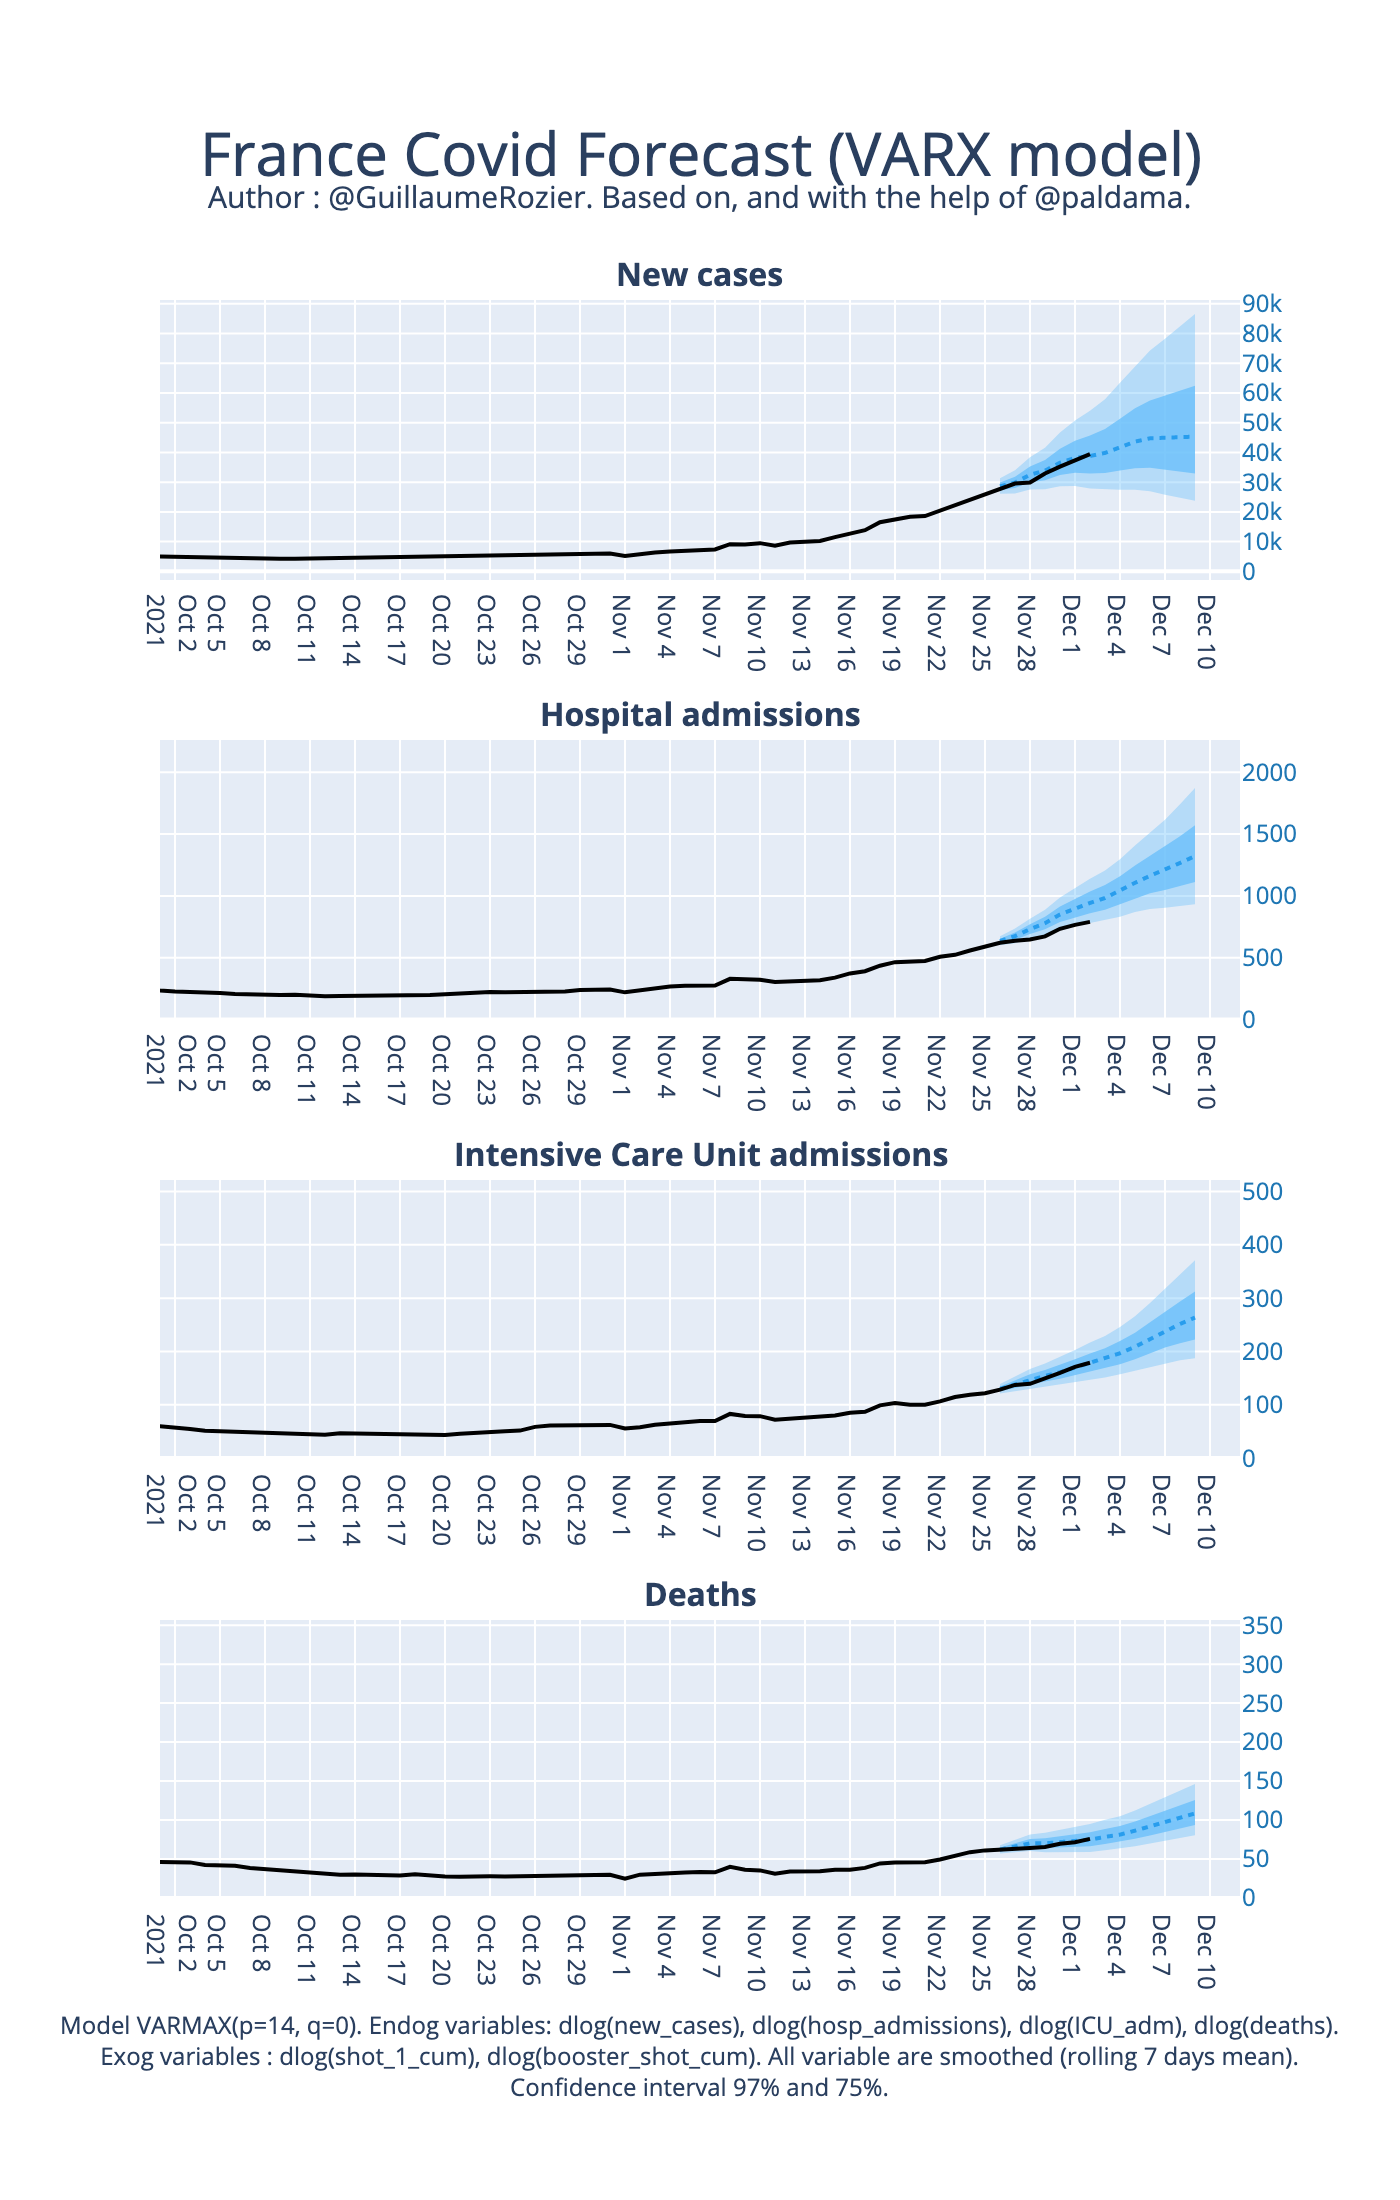
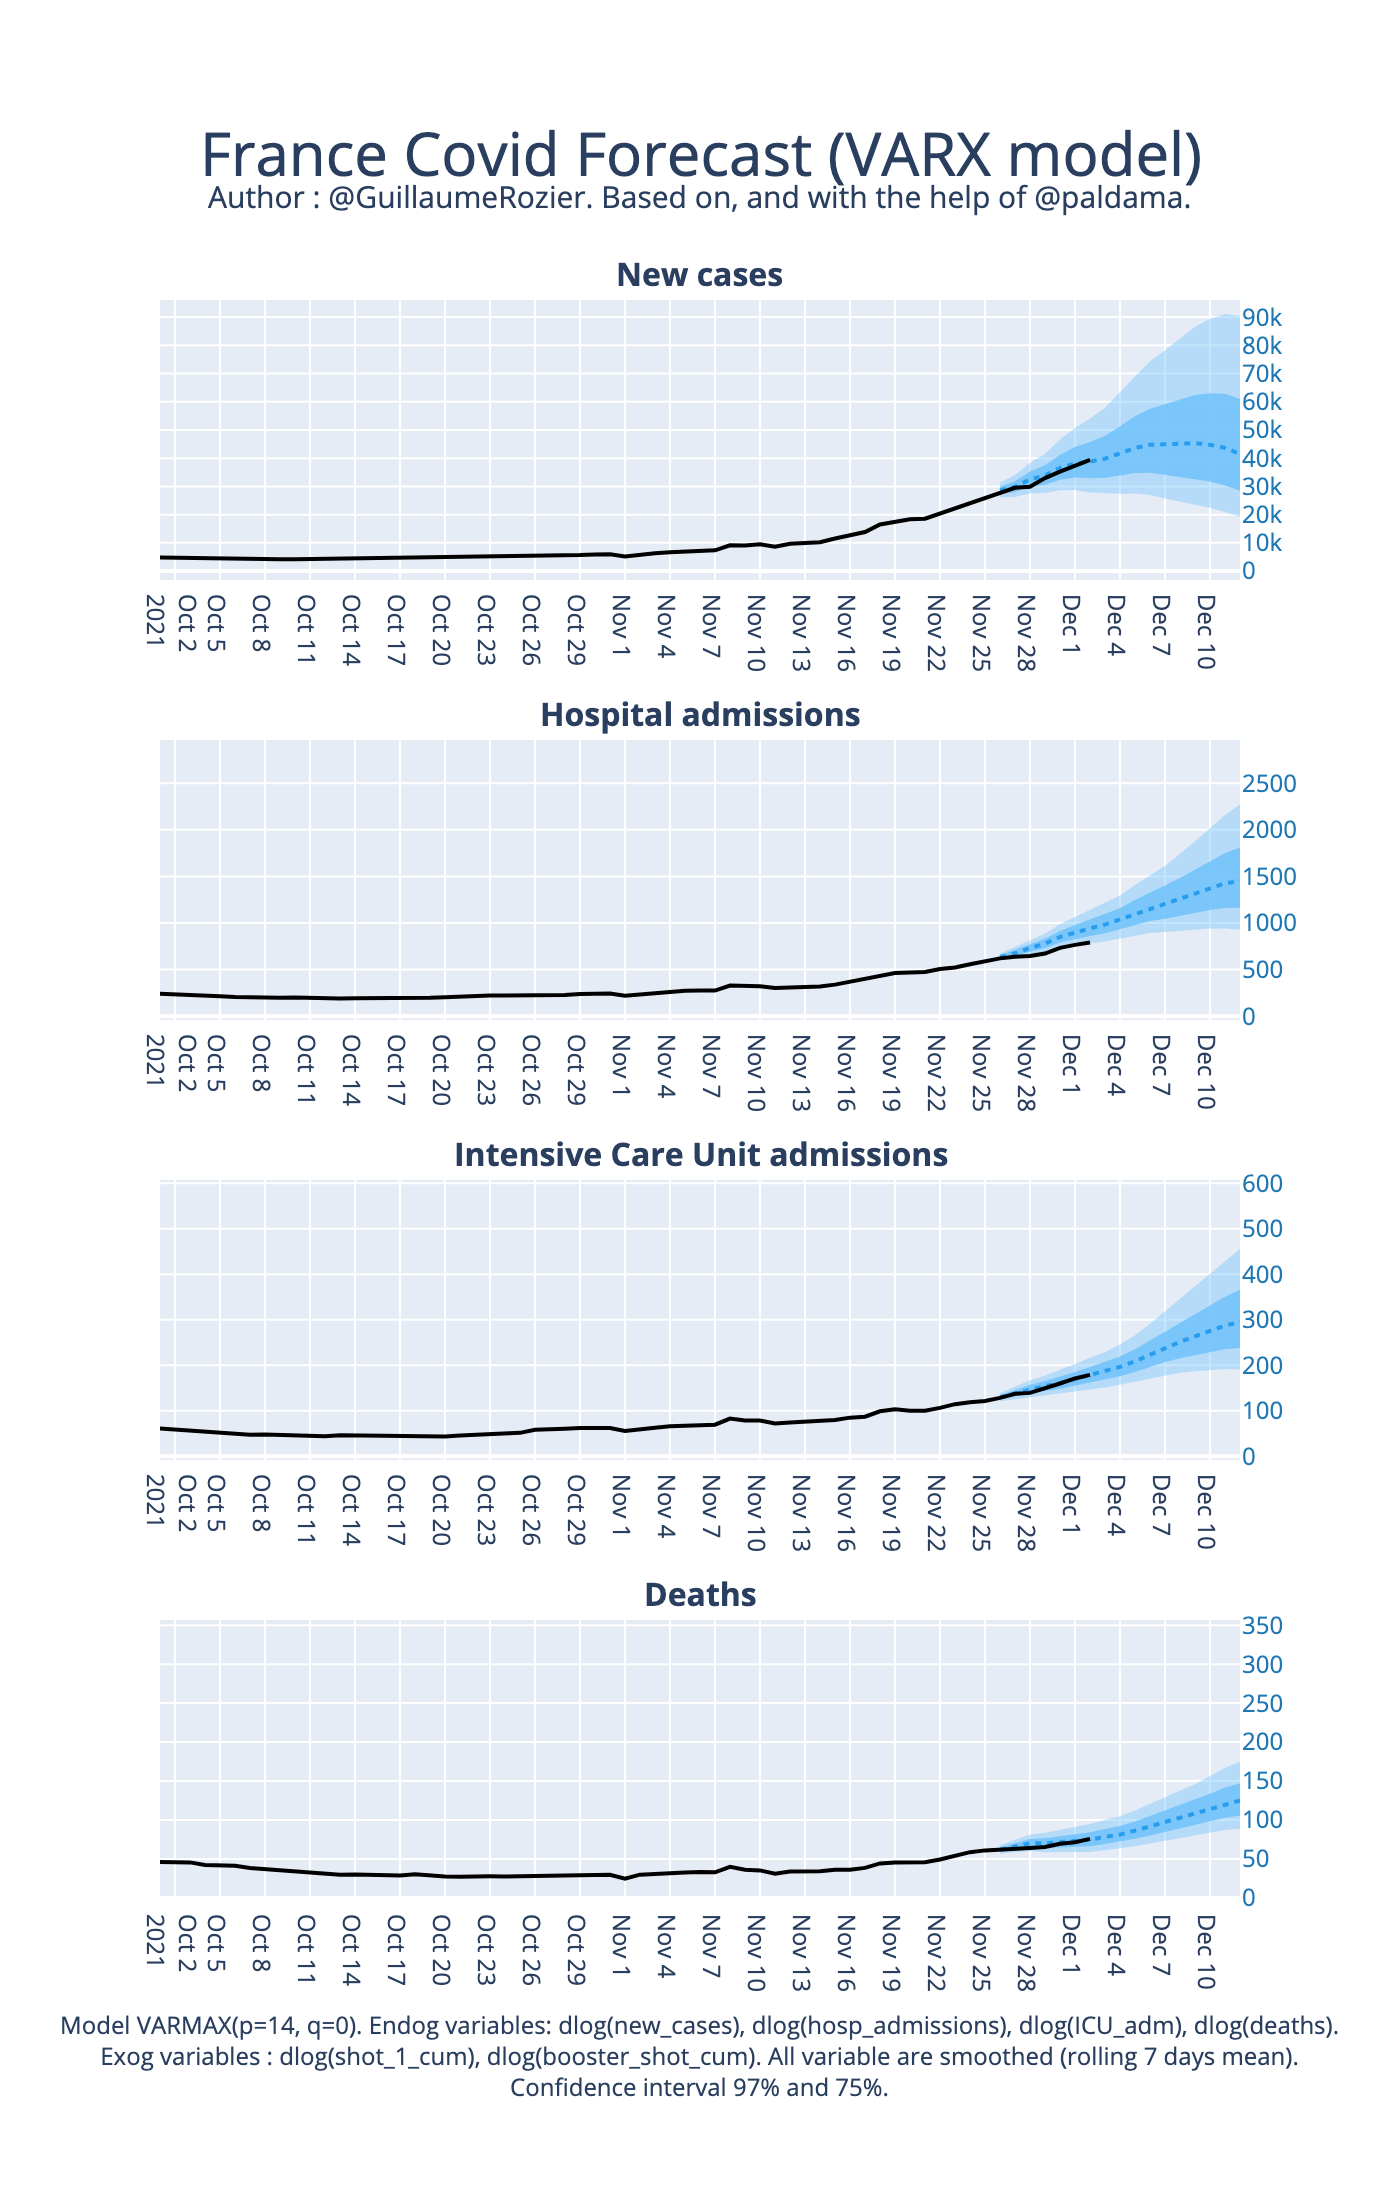
adding beds

diff --git a/src/forecast_plot.py b/src/forecast_plot.py
@@ -1,11 +1,11 @@
 from plotly.subplots import make_subplots
 from plotly import graph_objects as go
 
-def plot_and_export(df_dlog_all=None, yhat_mean=None, yhat_conf_int_0=None, yhat_conf_int_1=None, yhat_conf_int_2=None, yhat_conf_int_3=None, yhat_conf_int_75_0=None, yhat_conf_int_75_1=None, yhat_conf_int_75_2=None, yhat_conf_int_75_3=None, name_fig="model_output"):
-    fig = make_subplots(rows=4, 
+def plot_and_export(df_dlog_all=None, yhat_mean=None, yhat_conf_int_0=None, yhat_conf_int_1=None, yhat_conf_int_2=None, yhat_conf_int_3=None, yhat_conf_int_4=None, yhat_conf_int_5=None, yhat_conf_int_75_0=None, yhat_conf_int_75_1=None, yhat_conf_int_75_2=None, yhat_conf_int_75_3=None, yhat_conf_int_75_4=None, yhat_conf_int_75_5=None, name_fig="model_output"):
+    fig = make_subplots(rows=6, 
                         cols=1, 
                         vertical_spacing = 0.1,
-                        subplot_titles=("<b>New cases</b>", "<b>Hospital admissions</b>", "<b>Intensive Care Unit admissions</b>", "<b>Deaths</b>"))
+                        subplot_titles=("<b>New cases</b>", "<b>Hospital admissions</b>", "<b>Intensive Care Unit admissions</b>", "<b>Hosp beds</b>", "<b>ICU beds</b>", "<b>Deaths</b>"))
 
 
     fig.add_trace(
@@ -258,6 +258,180 @@ def plot_and_export(df_dlog_all=None, yhat_mean=None, yhat_conf_int_0=None, yhat
         go.Scatter(
             x=df_dlog_all.index,
             y=10**df_dlog_all["incid_rea"],
+            marker_color="black",
+            mode="lines",
+            name="ICU admissions",
+            showlegend=False
+        ),
+        row=3,
+        col=1
+    )
+
+    ###
+    # Lits hosp
+
+    fig.add_trace(
+        go.Scatter(
+            x=yhat_conf_int_75_4.index,
+            y=10**yhat_conf_int_75_4["mean_ci_lower"],
+            line_width=0,
+            mode="lines",
+            name="ICU admissions [predicted]",
+            showlegend=False
+        ),
+        row=3,
+        col=1
+    )
+
+    fig.add_trace(
+        go.Scatter(
+            x=yhat_conf_int_75_4.index,
+            y=10**yhat_conf_int_75_4["mean_ci_upper"],
+            line_width=0,
+            fill="tonexty",
+            fillcolor="rgba(107, 192, 250, 0.8)",
+            mode="lines",
+            name="ICU admissions [predicted]",
+            showlegend=False
+        ),
+        row=3,
+        col=1
+    )
+
+
+    fig.add_trace(
+        go.Scatter(
+            x=yhat_conf_int_4.index,
+            y=10**yhat_conf_int_4["mean_ci_lower"],
+            line_width=0,
+            mode="lines",
+            name="ICU admissions [predicted]",
+            showlegend=False
+        ),
+        row=3,
+        col=1
+    )
+
+    fig.add_trace(
+        go.Scatter(
+            x=yhat_conf_int_4.index,
+            y=10**yhat_conf_int_4["mean_ci_upper"],
+            line_width=0,
+            fill="tonexty",
+            fillcolor="rgba(107, 192, 250, 0.4)",
+            mode="lines",
+            name="ICU admissions [predicted]",
+            showlegend=False
+        ),
+        row=3,
+        col=1
+    )
+
+    fig.add_trace(
+        go.Scatter(
+            x=yhat_mean.index,
+            y=10**yhat_mean["hosp"],
+            marker=dict(color="rgba(40, 157, 237, 1)"),
+            line=dict(dash='dot'),
+            mode="lines",
+            name="ICU admissions [predicted]",
+            showlegend=False
+        ),
+        row=3,
+        col=1
+    )
+
+    fig.add_trace(
+        go.Scatter(
+            x=df_dlog_all.index,
+            y=10**df_dlog_all["hosp"],
+            marker_color="black",
+            mode="lines",
+            name="ICU admissions",
+            showlegend=False
+        ),
+        row=3,
+        col=1
+    )
+
+    ###
+    # Lits rea
+
+    fig.add_trace(
+        go.Scatter(
+            x=yhat_conf_int_75_5.index,
+            y=10**yhat_conf_int_75_5["mean_ci_lower"],
+            line_width=0,
+            mode="lines",
+            name="ICU admissions [predicted]",
+            showlegend=False
+        ),
+        row=3,
+        col=1
+    )
+
+    fig.add_trace(
+        go.Scatter(
+            x=yhat_conf_int_75_5.index,
+            y=10**yhat_conf_int_75_5["mean_ci_upper"],
+            line_width=0,
+            fill="tonexty",
+            fillcolor="rgba(107, 192, 250, 0.8)",
+            mode="lines",
+            name="ICU admissions [predicted]",
+            showlegend=False
+        ),
+        row=3,
+        col=1
+    )
+
+
+    fig.add_trace(
+        go.Scatter(
+            x=yhat_conf_int_5.index,
+            y=10**yhat_conf_int_5["mean_ci_lower"],
+            line_width=0,
+            mode="lines",
+            name="ICU admissions [predicted]",
+            showlegend=False
+        ),
+        row=3,
+        col=1
+    )
+
+    fig.add_trace(
+        go.Scatter(
+            x=yhat_conf_int_5.index,
+            y=10**yhat_conf_int_5["mean_ci_upper"],
+            line_width=0,
+            fill="tonexty",
+            fillcolor="rgba(107, 192, 250, 0.4)",
+            mode="lines",
+            name="ICU admissions [predicted]",
+            showlegend=False
+        ),
+        row=3,
+        col=1
+    )
+
+    fig.add_trace(
+        go.Scatter(
+            x=yhat_mean.index,
+            y=10**yhat_mean["rea"],
+            marker=dict(color="rgba(40, 157, 237, 1)"),
+            line=dict(dash='dot'),
+            mode="lines",
+            name="ICU admissions [predicted]",
+            showlegend=False
+        ),
+        row=3,
+        col=1
+    )
+
+    fig.add_trace(
+        go.Scatter(
+            x=df_dlog_all.index,
+            y=10**df_dlog_all["rea"],
             marker_color="black",
             mode="lines",
             name="ICU admissions",

diff --git a/src/covid19_var_model.py b/src/covid19_var_model.py
@@ -18,27 +18,27 @@ df_dlog_lastweek, df_dlog, df_dlog_all = import_and_prepare_data()
 ### Model definition
 
 # With booster shots, data until previous week
-model_booster_lastweek = VARMAX(df_dlog_lastweek[["new_cases", "incid_hosp", "incid_rea", "incid_dc"]],
+model_booster_lastweek = VARMAX(df_dlog_lastweek[["new_cases", "incid_hosp", "incid_rea", "incid_dc", "rea", "hosp"]],
                                 exog=df_dlog_lastweek[["vaccination_rappel"]], 
-                                order=(14, 0),)
+                                order=(14, 0), initialization='approximate_diffuse')
 
 # Without any exog variable, data until previous week
 model_sans_exo_lastweek = VARMAX(df_dlog_lastweek[["new_cases", "incid_hosp", "incid_rea", "incid_dc"]],
                                  order=(14, 0),)
 
 # With booster shots, full data
-model_booster = VARMAX(df_dlog[["new_cases", "incid_hosp", "incid_rea", "incid_dc"]],
+model_booster = VARMAX(df_dlog[["new_cases", "incid_hosp", "incid_rea", "incid_dc", "rea", "hosp"]],
                        exog=df_dlog[["vaccination_rappel"]], 
-                       order=(14, 0),)
+                       order=(14, 0), initialization='approximate_diffuse')
 
 # With booster shots, full data
 model_sans_exo = VARMAX(df_dlog[["new_cases", "incid_hosp", "incid_rea", "incid_dc"]],
-                        order=(14, 0),)
+                        order=(14, 0), initialization='approximate_diffuse')
 
 
-#model_booster_lastweek_fit = model_booster_lastweek.fit(disp=False)
-model_sans_exo_lastweek_fit = model_sans_exo_lastweek.fit(disp=False)
-#model_booster_fit = model_booster.fit(disp=False)
+model_booster_lastweek_fit = model_booster_lastweek.fit(disp=False)
+#model_sans_exo_lastweek_fit = model_sans_exo_lastweek.fit(disp=False)
+model_booster_fit = model_booster.fit(disp=False)
 #model_sans_exo_fit = model_sans_exo.fit(disp=False)
 
 # Forecast
@@ -47,9 +47,9 @@ def forecast_and_plot():
     exog_booster=[[df_dlog["vaccination_rappel"].tolist()[-1]]]*steps
     
     for (model_fit, exog, name_plot) in [\
-                                            #(model_booster_lastweek_fit, exog_booster, "model_booster_lastweek_fit"),\
-                                            (model_sans_exo_lastweek_fit, None, "model_sans_exo_lastweek_fit"),\
-                                            #(model_booster_fit, exog_booster, "model_booster_fit"),\
+                                            (model_booster_lastweek_fit, exog_booster, "model_booster_lastweek_fit"),\
+                                            #(model_sans_exo_lastweek_fit, None, "model_sans_exo_lastweek_fit"),\
+                                            (model_booster_fit, exog_booster, "model_booster_fit"),\
                                             #(model_sans_exo_fit, None, "model_sans_exo_fit"),\
                                         ]:
     
@@ -57,10 +57,10 @@ def forecast_and_plot():
         yhat_mean = yhat.predicted_mean
 
         # Confidence intervals
-        yhat_conf_int_0, yhat_conf_int_1, yhat_conf_int_2, yhat_conf_int_3 = yhat.summary_frame(endog=0, alpha=0.02), yhat.summary_frame(endog=1, alpha=0.02), yhat.summary_frame(endog=2, alpha=0.02), yhat.summary_frame(endog=3, alpha=0.02)
-        yhat_conf_int_75_0, yhat_conf_int_75_1, yhat_conf_int_75_2, yhat_conf_int_75_3 = yhat.summary_frame(endog=0, alpha=0.25), yhat.summary_frame(endog=1, alpha=0.25), yhat.summary_frame(endog=2, alpha=0.25), yhat.summary_frame(endog=3, alpha=0.25)
+        yhat_conf_int_0, yhat_conf_int_1, yhat_conf_int_2, yhat_conf_int_3, yhat_conf_int_4, yhat_conf_int_5  = yhat.summary_frame(endog=0, alpha=0.02), yhat.summary_frame(endog=1, alpha=0.02), yhat.summary_frame(endog=2, alpha=0.02), yhat.summary_frame(endog=3, alpha=0.02), yhat.summary_frame(endog=4, alpha=0.02), yhat.summary_frame(endog=5, alpha=0.02)
+        yhat_conf_int_75_0, yhat_conf_int_75_1, yhat_conf_int_75_2, yhat_conf_int_75_3, yhat_conf_int_75_4, yhat_conf_int_75_5 = yhat.summary_frame(endog=0, alpha=0.25), yhat.summary_frame(endog=1, alpha=0.25), yhat.summary_frame(endog=2, alpha=0.25), yhat.summary_frame(endog=3, alpha=0.25), yhat.summary_frame(endog=4, alpha=0.25), yhat.summary_frame(endog=5, alpha=0.25)
 
         # Plot
-        plot_and_export(df_dlog_all=df_dlog_all, yhat_mean=yhat_mean, yhat_conf_int_0=yhat_conf_int_0, yhat_conf_int_1=yhat_conf_int_1, yhat_conf_int_2=yhat_conf_int_2, yhat_conf_int_3=yhat_conf_int_3, yhat_conf_int_75_0=yhat_conf_int_75_0, yhat_conf_int_75_1=yhat_conf_int_75_1, yhat_conf_int_75_2=yhat_conf_int_75_2, yhat_conf_int_75_3=yhat_conf_int_75_3, name_fig=name_plot)
+        plot_and_export(df_dlog_all=df_dlog_all, yhat_mean=yhat_mean, yhat_conf_int_0=yhat_conf_int_0, yhat_conf_int_1=yhat_conf_int_1, yhat_conf_int_2=yhat_conf_int_2, yhat_conf_int_3=yhat_conf_int_3, yhat_conf_int_4=yhat_conf_int_4, yhat_conf_int_5=yhat_conf_int_5, yhat_conf_int_75_0=yhat_conf_int_75_0, yhat_conf_int_75_1=yhat_conf_int_75_1, yhat_conf_int_75_2=yhat_conf_int_75_2, yhat_conf_int_75_3=yhat_conf_int_75_3, yhat_conf_int_75_4=yhat_conf_int_75_4, yhat_conf_int_75_5=yhat_conf_int_75_5, name_fig=name_plot)
 
 forecast_and_plot()

diff --git a/src/data.py b/src/data.py
@@ -24,6 +24,12 @@ def import_and_prepare_data():
     df_admissions.index = pd.to_datetime(df_admissions["jour"])
     df_admissions = df_admissions[["incid_hosp", "incid_rea", "incid_dc"]]
 
+    # Import hospital, ICU admissions and deaths data
+    df_hospital = pd.read_csv("https://www.data.gouv.fr/fr/datasets/r/63352e38-d353-4b54-bfd1-f1b3ee1cabd7", sep=";")
+    df_hospital = df_hospital.groupby("jour").sum().reset_index()
+    df_hospital.index = pd.to_datetime(df_hospital["jour"])
+    df_hospital = df_hospital[["hosp", "rea"]]
+
     # Import data vaccination
     df_vaccination = pd.read_csv("https://www.data.gouv.fr/fr/datasets/r/fa4ad329-14ec-4394-85a4-c5df33769dff", sep=";")
     df_vaccination.index = pd.to_datetime(df_vaccination["jour"])
@@ -34,6 +40,7 @@ def import_and_prepare_data():
     # Data merge
     df_dlog = df_new_cases.merge(df_admissions, left_on="jour", right_on="jour")
     df_dlog = df_dlog.merge(df_vaccination, left_on="jour", right_on="jour").fillna(0)
+    df_dlog = df_dlog.merge(df_hospital, left_on="jour", right_on="jour").fillna(0)
     df_dlog[df_dlog.columns] = df_dlog[df_dlog.columns].rolling(window=7).mean()
 
     # dlog compute
@@ -43,6 +50,6 @@ def import_and_prepare_data():
     df_dlog_all = df_dlog.copy()
     df_dlog = df_dlog["2020-09-01":]
 
-    df_dlog_lastweek = df_dlog[:-14]
+    df_dlog_lastweek = df_dlog[:-7]
 
     return df_dlog_lastweek, df_dlog, df_dlog_all
